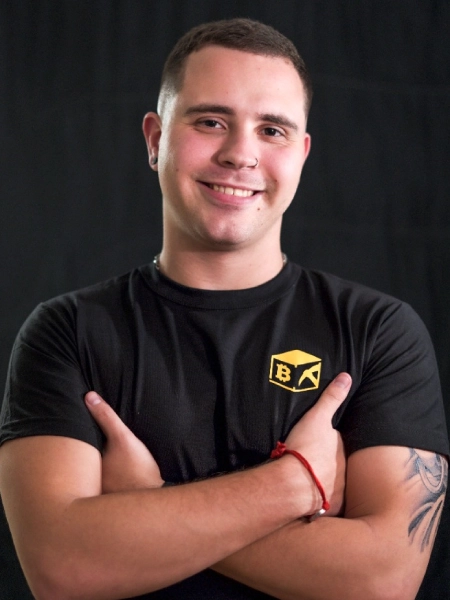
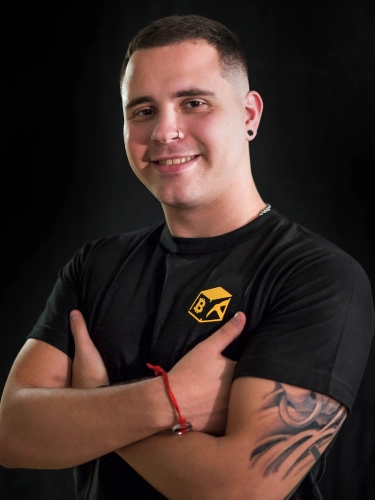
intercambiado sections de botones, imagenes del team y hero description

diff --git a/index.html b/index.html
@@ -60,8 +60,10 @@
         <div class="col-lg-6 d-flex flex-column justify-content-center mt-5">
           <h1 data-aos="fade-up">¡Empezá a minar hoy!</h1>
           <h2 class="subtitle" data-aos="fade-up" data-aos-delay="400">Presupuestos personalizados a tu medida. 
-            <br>Todos los equipos vienen con "llave en mano". Te llega, lo enchufás y
-          ya estás minando.<br>
+            <br>Todos los equipos vienen con "llave en mano". 
+            <br> Te llega, lo enchufás y ya estás minando.
+            <br>
+            <br>
           Vas a contar con soporte técnico post-venta gratuito para acompañarte en tu camino como minero.</h2>
           <div data-aos="fade-up" data-aos-delay="600">
             <div class="text-center text-lg-start">
@@ -124,30 +126,20 @@
           <div class="container">
             <div class="row justify-content-center">
               <div class="col-lg-12 text-center">
-                <h4 class="title">¡Todo la información que necesitas sobre minería de refrigeración por inmersión liquida!</h4>
+                <h4>¡Comenzá a minar Bitcoin hoy!</h4>
+                <p>La criptomoneda con mayor capitalización del mercado.</p>
               </div>
               <div class="text-center">
-                <a href="https://drive.google.com/file/d/16WZ4SZkUpjfmXVHaV7_iH75QovZyGDuk/view?usp=sharing"
-                  class="btn-precios d-inline-flex align-items-center justify-content-center align-self-center"
-                  target="_blank" rel="noopener noreferrer">
-                  <span>Bitpool ONE</span>
-                  <i class="bi bi-droplet" style="padding-left: 3px;"></i>
-                </a>
-                <a href="https://drive.google.com/file/d/1qlJCsEr-wepNVrP15uJoqUtNdS359VKk/view"
-                  class="btn-precios d-inline-flex align-items-center justify-content-center align-self-center"
-                  target="_blank" rel="noopener noreferrer">
-                  <span>Bitpool DUO</span>
-                  <i class="bi bi-droplet" style="padding-left: 3px;"></i>
-                </a>
-                <a href="https://drive.google.com/file/d/1zZNZdHIM0j33Wlj0pXc-ijkRtBh0MGQA/view"
-                  class="btn-precios d-inline-flex align-items-center justify-content-center align-self-center"
-                  target="_blank" rel="noopener noreferrer">
-                  <span>Bitpool TRÍO</span>
-                  <i class="bi bi-droplet" style="padding-left: 3px;"></i>
+                <a href="https://docs.google.com/spreadsheets/d/1dczl3BcM9D2cGrtHyKrK6GXEXPyY7qszdTgdY5LEBXA/edit?usp=sharing&authuser=1"
+                  class="btn-precios d-inline-flex align-items-center justify-content-center align-self-center" target="_blank"
+                  rel="noopener noreferrer">
+                  <span>Precios y Rendimientos</span>
+                  <i class="bi bi-file-earmark-bar-graph" style="padding-left: 3px;"></i>
                 </a>
               </div>
             </div>
           </div>
+          
         </section>
         <section id="bitpool">
           <div class="row feture-tabs" data-aos="fade-up">
@@ -178,15 +170,26 @@
       <div class="container">
         <div class="row justify-content-center">
           <div class="col-lg-12 text-center">
-            <h4>¡Comenzá a minar Bitcoin hoy!</h4>
-            <p>La criptomoneda con mayor capitalización del mercado.</p>
+            <h4 class="title">¡Todo la información que necesitas sobre minería de refrigeración por inmersión liquida!</h4>
           </div>
           <div class="text-center">
-            <a href="https://docs.google.com/spreadsheets/d/1dczl3BcM9D2cGrtHyKrK6GXEXPyY7qszdTgdY5LEBXA/edit?usp=sharing&authuser=1"
-              class="btn-precios d-inline-flex align-items-center justify-content-center align-self-center"
-              target="_blank" rel="noopener noreferrer">
-              <span>Precios y Rendimientos</span>
-              <i class="bi bi-file-earmark-bar-graph" style="padding-left: 3px;"></i>
+            <a href="https://drive.google.com/file/d/16WZ4SZkUpjfmXVHaV7_iH75QovZyGDuk/view?usp=sharing"
+              class="btn-precios d-inline-flex align-items-center justify-content-center align-self-center" target="_blank"
+              rel="noopener noreferrer">
+              <span>Bitpool ONE</span>
+              <i class="bi bi-droplet" style="padding-left: 3px;"></i>
+            </a>
+            <a href="https://drive.google.com/file/d/1qlJCsEr-wepNVrP15uJoqUtNdS359VKk/view"
+              class="btn-precios d-inline-flex align-items-center justify-content-center align-self-center" target="_blank"
+              rel="noopener noreferrer">
+              <span>Bitpool DUO</span>
+              <i class="bi bi-droplet" style="padding-left: 3px;"></i>
+            </a>
+            <a href="https://drive.google.com/file/d/1zZNZdHIM0j33Wlj0pXc-ijkRtBh0MGQA/view"
+              class="btn-precios d-inline-flex align-items-center justify-content-center align-self-center" target="_blank"
+              rel="noopener noreferrer">
+              <span>Bitpool TRÍO</span>
+              <i class="bi bi-droplet" style="padding-left: 3px;"></i>
             </a>
           </div>
         </div>
